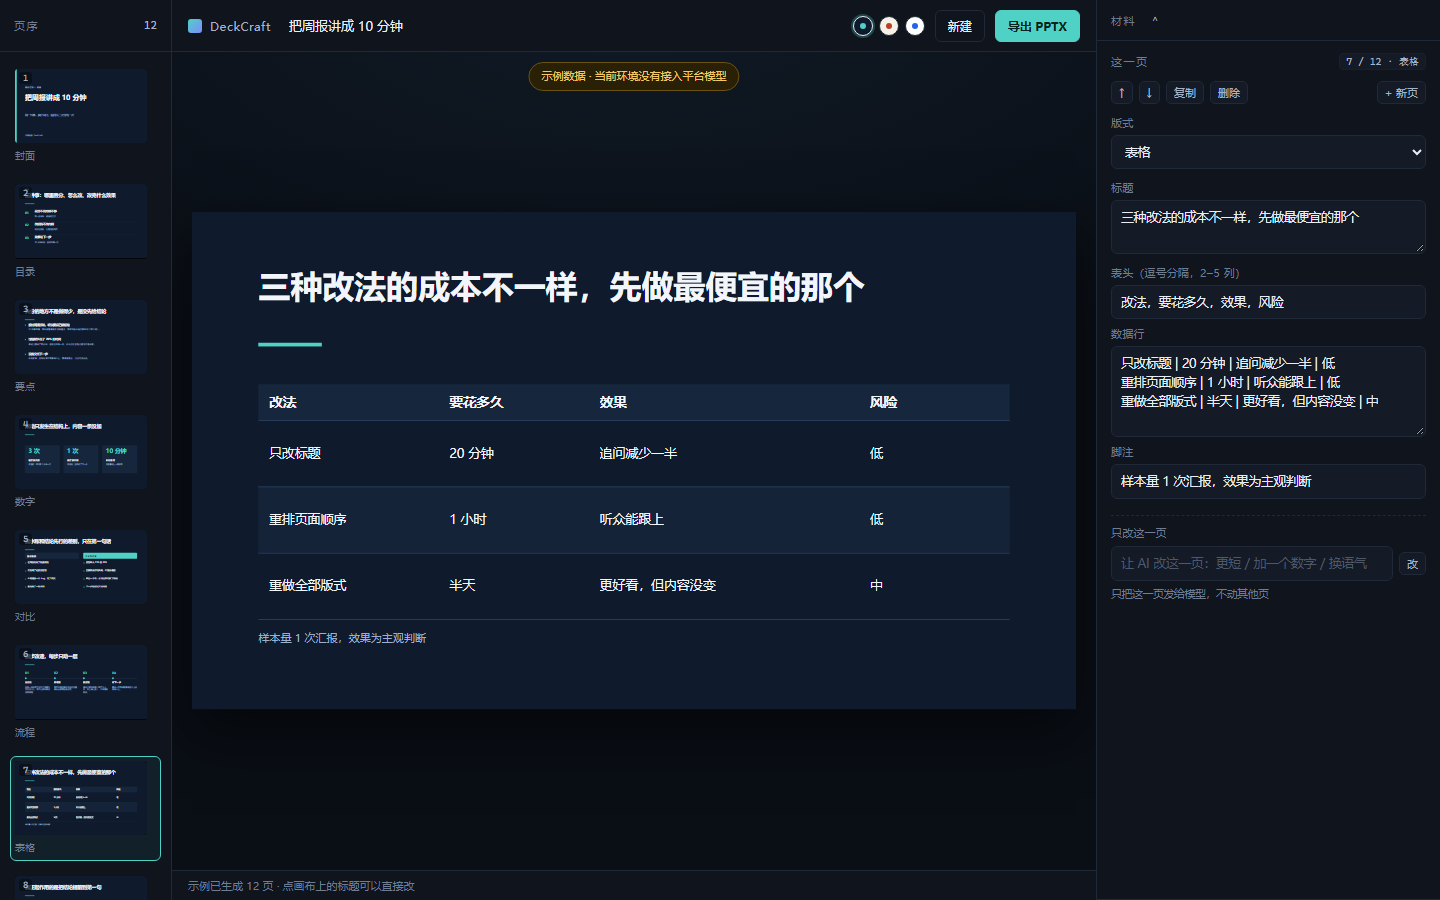
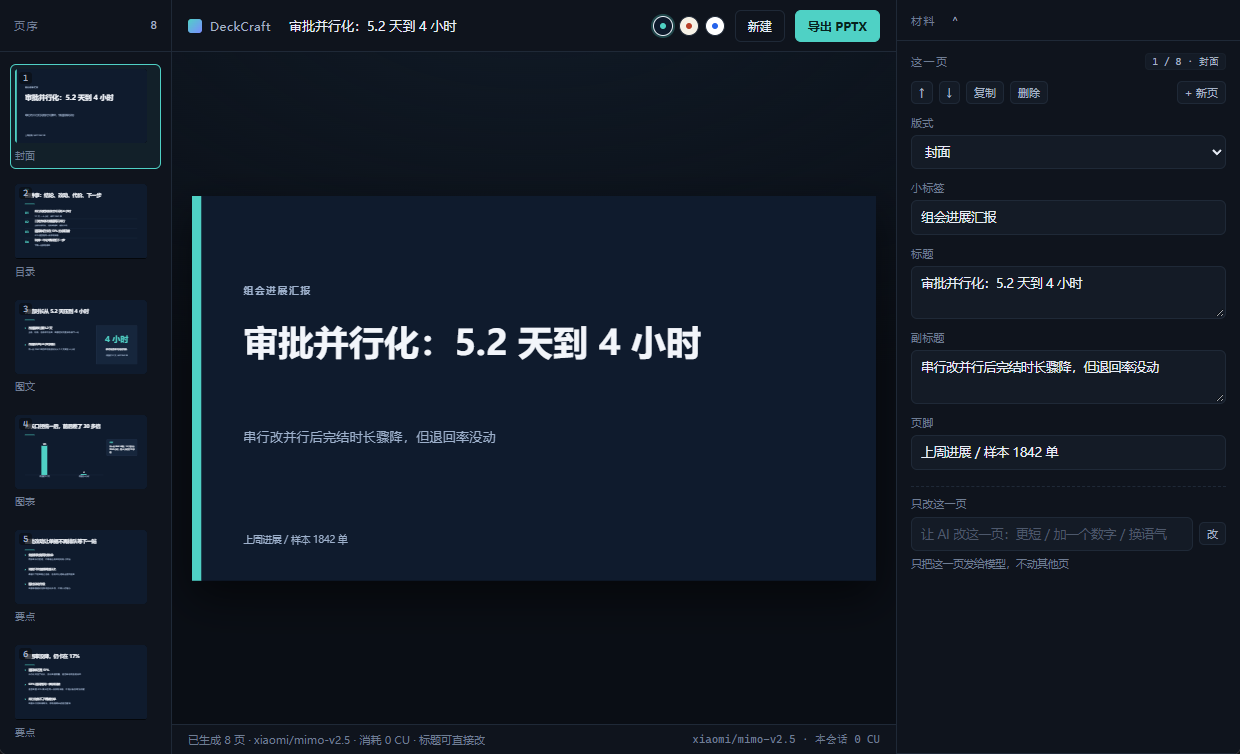
Store images from a real generation, plus two prompt fixes
The screenshot set was taken in local preview with a 'sample data' banner on the
canvas, which would have shipped a listing image that disproves the product.
Regenerated all three from one real platform generation.

That run also exposed two prompt bugs the mock data could never show:
- a chart mixed days and hours on one axis (5.2 next to 4), making the second
  bar invisible; the model now converts to one unit and puts the unit in the
  category label
- the model echoed my own rule into the insight ('同量纲需换算…'), so the slide
  read like a work note; insight is now told to state meaning, not method

diff --git a/bundle/js/prompt.js b/bundle/js/prompt.js
@@ -70,14 +70,20 @@ const RULES = `写作要求（按重要性排序）：
 10. 选版式的判断（这一条决定成品像不像"人做的"，务必执行）：
    - 材料里出现 **2 个以上可比数字**（时长、占比、倍数、样本量），
      必须至少用一页 stat 或 chart 把它们摆出来；只写进 detail 等于浪费了最硬的证据。
-     同一张图里的系列必须同量纲，否则拆成两页。
+   - chart 页只能放**同量纲**的数：材料里既有"天"又有"小时"，先统一成同一个单位再画，
+     单位写进 categories（例：["改造前 124.8h", "改造后 4h"]），绝不把 5.2 和 4 并排比。
+   - insight 只写"这组数字说明了什么"，**不要写你是怎么换算、怎么处理的**——
+     读者不关心口径推导，写进去会像工作笔记。
    - 三个以上的横向对比（方案 / 版本 / 竞品 / 前后差异），用 table，不要用 points 硬凑；
      最多 5 列 7 行，单元格 ≤16 字，第一列是被比较的对象。
    - 有一个能概括全场的数字或关键词（时长、倍数、占比），用 split 把它放大，
      右边配 2-3 条支撑；不要把它塞进 points 的第一条。
    - 页数 ≥8 时，第 2 页放 agenda，章节名用判断句，不要写"第一部分"；
      页数 <8 不要放目录。
-   - 一页里只讲一件事。如果两个要点各自还要展开，就拆成两页，不要挤在一页的 detail 里。`;
+   - 一页里只讲一件事。如果两个要点各自还要展开，就拆成两页，不要挤在一页的 detail 里。
+   - **不要有两页讲同一件事**。写完通读一遍标题：如果两页的结论句意思重叠
+     （比如都在说"退回率没降，卡在字段错"），删掉一页，把省下的位置给别的内容——
+     缺内容就补"代价是什么""谁受影响""怎么验证"，而不是换个说法重复一遍。`;
 
 function sceneLine(scene) {
   const found = SCENES.find((s) => s.id === scene || s.name === scene);
